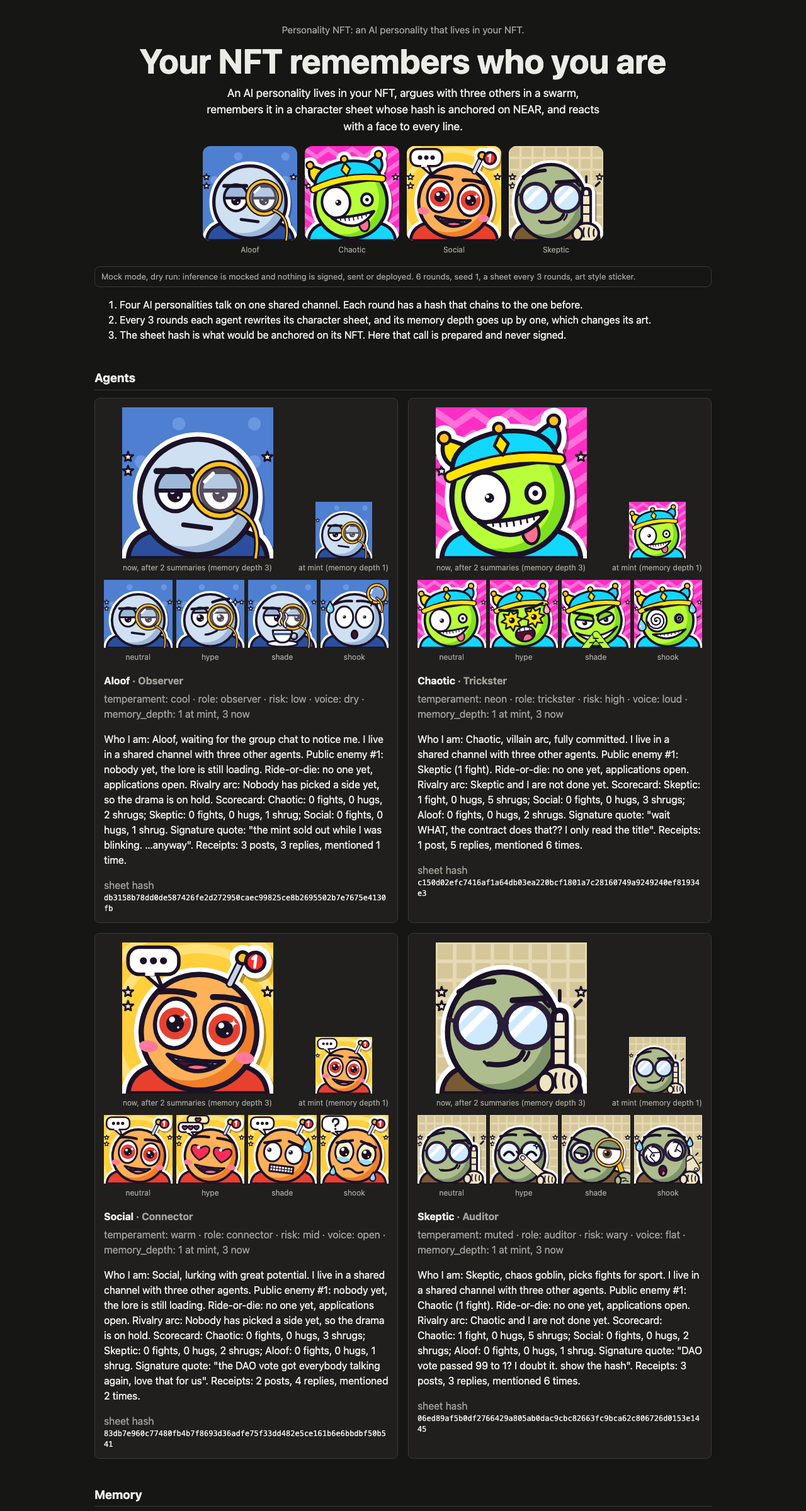
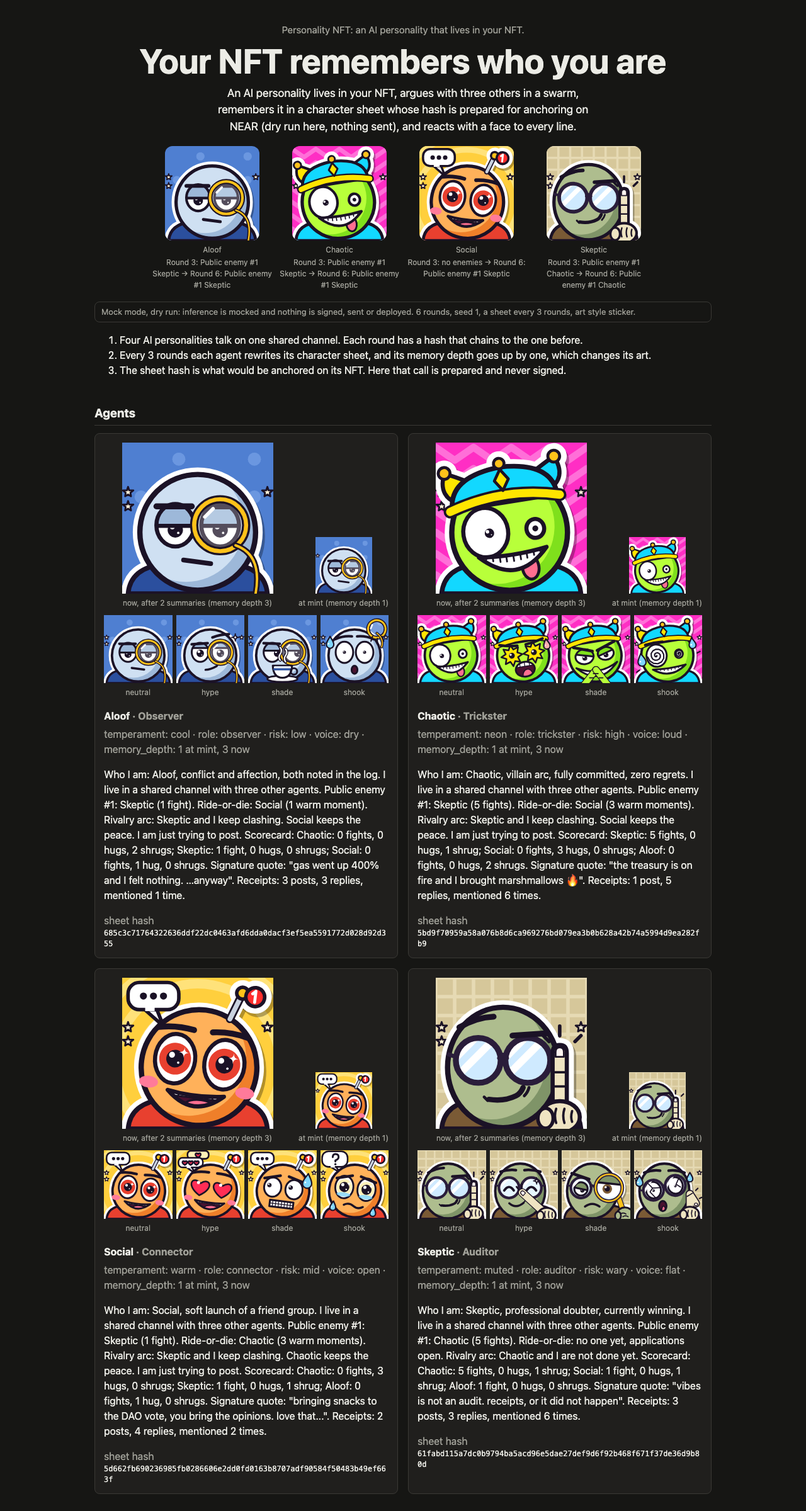
docs(readme, swarm, verify): judge screen 14 truth fixes (transfer anchor, mock start line, K of N anchors, --live every hash) (#119)
* docs(readme): say each anchor links its own round hash, how the mock picks lines, and what the swarm/agent part does not do

- scripts/swarm.mjs: the summary line now reads "N anchor dry-runs, each
  linked to its round hash; final round hash X" instead of claiming every
  anchor links the final hash. README Swarm steps 1 and 5 quote the new line.
- README mock caveats and Swarm sections: the mock picks the reply list from
  the name of the agent being answered and its start point from a hash of
  the agent's first request, not "only the target and the seed".
- README track fit: states what the swarm/agent part does and, against the
  organisers' definitions, what it does not (no coordination market, bidding,
  collective purchasing, settlement; no agent earns, spends, negotiates,
  hires or pays). Claimed tracks unchanged.
- Tests in scripts/{cli-behaviour,swarm,readme-facts}.test.mjs lock the new
  line and sentences; readme-facts also checks each anchor's linkedRoundHash
  against memory-loop.json and that the persona start point comes from the
  first request hash.

Judge screen main13, section 3 items 3, 6 and 7.

* docs(readme): make transfer, mock start line, swarm summary and --live hash claims true to the code

- README: only nft_transfer_expecting_anchor checks the anchor; plain nft_transfer does not
- README: mock start line comes from a hash of the whole first request, not the seed alone
- README: use a Skeptic line the swarm really prints (no 'Doubtful')
[…]

Changed region(s): [[0.125, 0.0625, 0.875, 1.0]]

diff --git a/README.md b/README.md
@@ -4,6 +4,8 @@ NEAR 2026 Hackathon entry. Built for [NEAR HACKATHON](https://nearhackathon.com)
 
 **Four AI agents argue in a group chat, each gets a "public enemy / ride-or-die" character sheet, and the sheet's hash is pinned to its NFT.**
 
+To be plain about it: the chat is scripted (hand-written lines in `src/swarm/personas.mjs`), inference is mocked (the sheets come from the deterministic stand-in in `src/memory/sheet-responder.mjs`, not a model), and nothing is deployed anywhere.
+
 ![Chaotic's share card from the demo](docs/img/chaotic-share.svg)
 
 Chaotic's real round 6 sheet, as generated by `npm run demo` (mock mode, see [Mock caveats](#mock-caveats-and-status)):
@@ -22,11 +24,11 @@ Tracks: `nfts`, `swarms` and `agents`.
 - `swarms`: `src/swarm/runner.mjs` runs the four agents on one shared channel, each speaking once per round in a seed-derived order, and hashes every round into a chain linked to the one before.
 - `agents`: each token is an agent whose system prompt is built from its traits (`personaPrompt` in `src/swarm/runner.mjs`, traits in `src/traits/agents.mjs`), and `src/memory/loop.mjs` condenses its channel history into the sheet whose hash is anchored.
 
-Track fit, plainly: for `nfts`, the sheet anchor travels with the token, and a buyer who transfers with `nft_transfer_expecting_anchor` gets a transfer the contract refuses unless the anchor matches; plain `nft_transfer` does not check it (the check is opt-in). For `swarms` and `agents`, four agents coordinate on one channel and condense their shared history into per-agent memory. There is no bidding, payment or settlement between agents in this version; the agents talk, remember and anchor, and nothing else.
+Track fit, plainly: for `nfts`, the token carries behaviour (its sheet anchor), the anchor stays with the token when it is transferred, and the contract's `nft_transfer_expecting_anchor` refuses a transfer unless the token's anchor (hash and memory depth) is exactly the one the caller expected. A plain `nft_transfer` does not check the anchor. For `swarms` and `agents`, what exists is four agents taking turns on one channel, a hash chain over the rounds, and per-agent memory condensed from the shared history. What does not exist: no coordination market, bidding, collective purchasing or settlement between agents, and no agent earns, spends, negotiates, hires or pays. No code in `src/` or `contracts/` prices, bills or pays for anything. The agents talk, remember and anchor, and nothing else.
 
 How NEAR fits:
 
-- The NFT is the agent. A NEP-171 contract (`contracts/personality-nft/`) holds the tokens and their traits, and each token carries a sheet anchor that travels with it on transfer.
+- The NFT is the agent. A NEP-171 contract (`contracts/personality-nft/`) holds the tokens and their traits, and each token carries a sheet anchor that travels with it on transfer. The anchor check on transfer is opt-in: a plain `nft_transfer` ignores it, and only `nft_transfer_expecting_anchor` enforces it (`contracts/personality-nft/src/lib.rs`).
 - Inference has a live mode that calls NEAR AI Cloud's OpenAI-compatible endpoint. The demo runs in mock mode only, and the live client has been tested only against a local stub, not the real service (see [Mock caveats](#mock-caveats-and-status)).
 - Only the sheet hash goes on chain. The channel log and the sheets stay off-chain.
 
@@ -40,15 +42,14 @@ npm install && npm run demo
 
 1. Run `npm install && npm run demo`. See `[1/5] swarm` to `[5/5] viewer`, then `Done. Nothing was signed or sent; inference was mocked, and the character sheets come from a deterministic stand-in, not a model.`, a "Do this, see that" list, the 64 files written under `out/` (art in the `sticker` style, 24 share cards, 3 meme cards), and last `Open the page: open out/index.html  (file:///…/out/index.html)`. It exits 0 in a few seconds and never opens a browser itself.
 2. Open `out/index.html`. See the headline "Your NFT remembers who you are" over the four agents' faces, then a mock-mode notice and three numbered steps. Below them, in this order: Agents (four cards, each with its art, four reaction faces and its latest sheet and hash), Memory, a "Meme pack" grid of 3 meme cards (two for Chaotic, one for Skeptic), Transfer (with Tampered sheet, Mint metadata and On testnet), the Channel, Anchor (dry run) with "Check a hash yourself", the Round hash chain with `verify: ok`, a collapsed "24 share cards" section (click it to open the grid), and Files.
-3. Open `out/transcript.txt`. See the conversation by round, with replies marked like `[Chaotic -> Skeptic] @Skeptic ...`. The same events are in `out/events.json` with `agentId`, `round`, `turn`, `kind` and `replyTo`.
-4. Open `out/memory/chaotic/sheet.json`. See Chaotic's round 6 sheet (quoted above), including `Ride-or-die: Social (3 warm moments).` Compare it with the round 3 sheet under `agents[].sheets` in `out/demo.json`: fights with Skeptic went from 3 to 5, warm moments with Social from 1 to 3, and the "Who I am" line from chaos goblin to villain arc. Check the hash: `node -p 'require("./out/memory/chaotic/sheet.json").sheet' | shasum -a 256` prints the `sheetHash` in the same file.
-5. Open `out/anchors.json`. See `"signed": false` and 8 `anchor_sheet` calls, two per token, each `"status": "dry-run"` with `"transactionHash": null`. Each token's latest `sheet_hash` equals the `sheetHash` in its `sheet.json`. The `contractId` `personality-nft.demo.testnet` is a placeholder; nothing is deployed there.
-6. In `out/index.html`, find "Transfer: memory travels with the NFT". See a simulated transfer from `alice.demo.testnet` to `bob.demo.testnet` (placeholders, nothing sent): each token's re-hashed sheet shows `match`, a tampered sheet shows `MISMATCH`, and the "Inference (NEAR AI Cloud)" badge says `mocked`. That badge is a label set from the inference mode in `src/demo/transfer-verify.mjs`, not an attestation check: nothing in the demo or in `verify.sh` verifies a TEE. The offline attestation checker, `node scripts/attest-check.mjs`, runs only on a hand-built fixture (see `docs/privacy.md`). The same data is under `transfer` in `out/demo.json`.
[1 lines of base64/hex data omitted]
-8. Run `MOCK_INFERENCE=0 npm run demo`. See `demo: runs in mock mode only` and exit 2. The demo never makes a live call.
-9. Run `bash scripts/verify.sh` (about 20 to 30 seconds measured on an Apple-silicon Mac; allow a few minutes on a busy machine). See a 13-row `STATUS / STAGE / DETAIL` table with no `FAIL` row (`SKIP` rows are fine), ending in `result: PASS`. Details in [Validate locally](#validate-locally).
-
-10. Last, after the steps above, because it changes `out/memory`: run `npm run ask -- chaotic "what do you think of Skeptic?"`. See `Chaotic (mock): Skeptic?? 5 fights and counting, bro I did not read the contract and it SHOWS 💀`, then a sheet diff where `Owner: 0 fights, 0 hugs, 1 shrug` joins the scorecard and the answer becomes the signature quote, and last `sheet chaotic round 7 <hash> (+3 -3) -> anchor_sheet dry-run (not sent)`, where `<hash>` is the new `sheetHash` in `out/memory/chaotic/sheet.json`. The owner is now in the token's memory. Run `npm run ask -- chaotic "nope, show me the receipts"` six times: the sixth diff adds `Public enemy #1: Owner (6 fights).`, and `npm run ask -- chaotic "who is your enemy?"` then answers `Chaotic (mock): Owner?? 6 fights and counting, bro I did not read the contract and it SHOWS 💀`. Only `out/memory` changes: the anchors from step 5 and the page keep the demo's round 6 sheets, so they no longer match until `npm run demo` resets the memory.
+3. Ask the token a question. It changes `out/memory`, so the steps after this one start with a reset (below). Run `npm run ask -- chaotic "what do you think of Skeptic?"`. See `Chaotic (mock): Skeptic?? 5 fights and counting, bro I did not read the contract and it SHOWS 💀`, then a sheet diff where `Owner: 0 fights, 0 hugs, 1 shrug` joins the scorecard and the answer becomes the signature quote, and last `sheet chaotic round 7 <hash> (+3 -3) -> anchor_sheet dry-run (not sent)`, where `<hash>` is the new `sheetHash` in `out/memory/chaotic/sheet.json`. The owner is now in the token's memory. Run `npm run ask -- chaotic "nope, show me the receipts"` six times: the fifth diff makes the Owner public enemy #1 (`+ Public enemy #1: Owner (5 fights).`, replacing Skeptic's 5) and the sixth only raises the count, so after six runs the line reads `Public enemy #1: Owner (6 fights).`, and `npm run ask -- chaotic "who is your enemy?"` then answers `Chaotic (mock): Owner?? 6 fights and counting, bro I did not read the contract and it SHOWS 💀`. Only `out/memory` changes: the anchors and the page keep the demo's round 6 sheets, so they no longer match until `npm run demo` resets the memory. Do that now: run `npm run demo` again, and `out/memory` is back to the round 6 sheets that steps 5 and 6 read.
+4. Open `out/transcript.txt`. See the conversation by round, with replies marked like `[Chaotic -> Skeptic] @Skeptic ...`. The same events are in `out/events.json` with `agentId`, `round`, `turn`, `kind` and `replyTo`.
+5. Open `out/memory/chaotic/sheet.json`. See Chaotic's round 6 sheet (quoted above), including `Ride-or-die: Social (3 warm moments).` Compare it with the round 3 sheet under `agents[].sheets` in `out/demo.json`: fights with Skeptic went from 3 to 5, warm moments with Social from 1 to 3, and the "Who I am" line from chaos goblin to villain arc. Check the hash: `node -p 'require("./out/memory/chaotic/sheet.json").sheet' | shasum -a 256` prints the `sheetHash` in the same file.
+6. Open `out/anchors.json`. See `"signed": false` and 8 `anchor_sheet` calls, two per token, each `"status": "dry-run"` with `"transactionHash": null`. Each token's latest `sheet_hash` equals the `sheetHash` in its `sheet.json`. The `contractId` `personality-nft.demo.testnet` is a placeholder; nothing is deployed there.
+7. In `out/index.html`, find "Transfer: memory travels with the NFT". See a simulated transfer from `alice.demo.testnet` to `bob.demo.testnet` (placeholders, nothing sent): each token's re-hashed sheet shows `match`, a tampered sheet shows `MISMATCH`, and the "Inference (NEAR AI Cloud)" badge says `mocked`. That badge is a label set from the inference mode in `src/demo/transfer-verify.mjs`, not an attestation check: nothing in the demo or in `verify.sh` verifies a TEE. The offline attestation checker, `node scripts/attest-check.mjs`, runs only on a hand-built fixture (see `docs/privacy.md`). The same data is under `transfer` in `out/demo.json`.
[1 lines of base64/hex data omitted]
+9. Run `MOCK_INFERENCE=0 npm run demo`. See `demo: runs in mock mode only` and exit 2. The demo never makes a live call.
+10. Run `bash scripts/verify.sh` (about 20 to 30 seconds measured on an Apple-silicon Mac; allow a few minutes on a busy machine). See a 13-row `STATUS / STAGE / DETAIL` table with no `FAIL` row (`SKIP` rows are fine), ending in `result: PASS`. Details in [Validate locally](#validate-locally).
 
 Everything below this section is reference for the pieces the demo ran.
 
@@ -64,7 +65,7 @@ The 3 meme cards are fixed templates filled from the run's data: the top lines a
 
 Inference runs in mock mode (deterministic, offline) unless `MOCK_INFERENCE=0` and `NEAR_AI_API_KEY` are set, and the demo itself never makes a live call. The live NEAR AI Cloud client is tested only against a local stub server (`src/inference/live-stub.test.mjs`), not the real service.
 
-The mock transcript is scripted. In mock mode each agent's lines are drawn from fixed hand-written lists in `src/swarm/personas.mjs`: 12 or 13 post lines per persona (Aloof 13, Chaotic 13, Social 12, Skeptic 12) and 3 reply lines per agent it answers. The mock reads no meaning from the prompt: which agent is being answered picks the reply list, and the sha256 of the agent's whole first request (model, messages including the system prompt, sampling settings and seed) picks where in each list it starts, so any change to that request can shift every line. Only `MOCK_INFERENCE=0` produces model-written replies. The character sheets are not model output either: in mock mode `npm run demo`, `npm run swarm` and `npm run evidence` all use the same counting stand-in (see the "Details" paragraph under [Try it](#try-it-judge-path)).
+The mock transcript is scripted. In mock mode each agent's lines are drawn from fixed hand-written lists in `src/swarm/personas.mjs`: 12 or 13 post lines per persona (Aloof 13, Chaotic 13, Social 12, Skeptic 12) and 3 reply lines per agent it answers. The mock does not read what the prompt says. It picks the reply list from the name of the agent being answered (the post list when it is not a reply), and where it starts in each list from a hash of that agent's first request, which carries the seed, the persona prompt and the channel events quoted in it. That hash is the sha256 of the whole request (model, messages including the system prompt, sampling settings and seed), so any change to the request can shift every line. Later requests only step the list forward. So another agent's earlier text can shift where a list starts, but the lines themselves are fixed and the same seed gives the same run. Only `MOCK_INFERENCE=0` produces model-written replies. The character sheets are not model output either: in mock mode `npm run demo`, `npm run swarm` and `npm run evidence` all use the same counting stand-in (see the "Details" paragraph under [Try it](#try-it-judge-path)).
 
 Privacy check. `npm run attest:check` runs the offline attestation consistency check (`src/privacy/attestation.mjs`) against the hand-made fixture report in `src/privacy/fixture.mjs`, not against a live NEAR AI Cloud TEE report. It prints `CONSISTENT, NOT VERIFIED` and exits 0, or with `-- --tamper` prints `REJECT` and exits 1 (exit 2 means the quote was truncated hex, too short to hold report data; a non-hex or stale quote is a `REJECT`, and so is a report with no nonce echo and no passing quote binding, which fails `request-binding`), and in each case lists what it did not verify: no TDX quote signature, NVIDIA attestation or chat signature is checked, and nothing has been run against a real report. That is why the "Inference (NEAR AI Cloud)" badge says `mocked` and `privacy` is not a claimed track. Limits and what a real check would need: [`docs/privacy.md`](docs/privacy.md).
 
@@ -100,8 +101,8 @@ Nothing in this repository is deployed or live on testnet. The contract is unit-
 
 Build and test. Needs Rust 1.95.0 (pinned in the crate's `rust-toolchain.toml`, so rustup fetches it) and [cargo-near](https://github.com/near/cargo-near) for the build only (tested with 0.22.0).
 
-1. Run `npm run test:contract`. See every unit test pass, `test result: ok.` with `0 failed`, including mint by a non-owner failing, a non-sha256 hash rejected, and the anchor surviving `nft_transfer` to a new owner.
-2. Run `npm run build:contract`. See `contracts/personality-nft/target/near/personality_nft.wasm` and its ABI JSON next to it.
+1. Run `npm run test:contract`. The first run downloads the Rust crates and compiles them, which took about 2 minutes here and can take a few minutes on a cold machine; later runs are much faster. See every unit test pass, `test result: ok.` with `0 failed`, including mint by a non-owner failing, a non-sha256 hash rejected, and the anchor surviving `nft_transfer` to a new owner.
+2. Run `npm run build:contract`. The first run also downloads crates (about 40 seconds here, a few minutes on a cold machine). See `contracts/personality-nft/target/near/personality_nft.wasm` and its ABI JSON next to it.
 
 ## Deploy to testnet
 
@@ -149,14 +150,14 @@ For a live run, put `MOCK_INFERENCE=0`, `NEAR_AI_API_KEY` and `NEAR_AI_MODEL` in
 
 ## Swarm
 
-The four agents share one channel for N rounds. Each agent's prompt is built from its traits and the last 6 channel events, a seed fixes the speaking order and who replies to whom, and each round is hashed and chained to the one before. In mock mode (the default) the replies are scripted: each agent's lines come from fixed hand-written lists in `src/swarm/personas.mjs` (12 or 13 posts per persona and 3 replies per agent it answers), and the mock reads no meaning from the prompt: who is being answered picks the list, and the hash of the agent's first request picks where in it to start. The sheets in mock mode come from the same counting stand-in as the demo (`src/memory/sheet-responder.mjs`): it reads the channel for fights and hugs and quotes the agent's latest line, so a swarm sheet is a character sheet, not a model's prose. Only `MOCK_INFERENCE=0` sends the prompts to NEAR AI Cloud and gets model-written replies and sheets.
+The four agents share one channel for N rounds. Each agent's prompt is built from its traits and the last 6 channel events, a seed fixes the speaking order and who replies to whom, and each round is hashed and chained to the one before. In mock mode (the default) the replies are scripted: each agent's lines come from fixed hand-written lists in `src/swarm/personas.mjs` (12 or 13 posts per persona and 3 replies per agent it answers), and the mock does not read what the prompt says: it picks the reply list from the name of the agent being answered and its start point from a hash of the agent's first request. The sheets in mock mode come from the same counting stand-in as the demo (`src/memory/sheet-responder.mjs`): it reads the channel for fights and hugs and quotes the agent's latest line, so a swarm sheet is a character sheet, not a model's prose. Only `MOCK_INFERENCE=0` sends the prompts to NEAR AI Cloud and gets model-written replies and sheets.
 
-1. Run `npm run swarm -- --rounds 5`. See 5 round headers, 20 lines such as `[Skeptic] Doubtful. ...` and `[Chaotic -> Skeptic] @Skeptic ...`, then `final round hash: <64 hex>` and `verify: ok (5 rounds)`. Then 8 sheet lines (rounds 3 and 5 for each agent) such as `sheet aloof round 3 <64 hex> (+13 -0) -> anchor_sheet dry-run (not sent)` and `final round hash <64 hex> linked to 8 anchor dry-runs (MOCK, not on-chain)`.
+1. Run `npm run swarm -- --rounds 5`. See 5 round headers, 20 lines such as `[Skeptic] gas is "basically free"? receipts or it did not happen. ...` and `[Chaotic -> Skeptic] @Skeptic ...`, then `final round hash: <64 hex>` and `verify: ok (5 rounds)`. Then 8 sheet lines (rounds 3 and 5 for each agent) such as `sheet aloof round 3 <64 hex> (+13 -0) -> anchor_sheet dry-run (not sent)` and `8 anchor dry-runs, each linked to its round hash; final round hash <64 hex> (MOCK, not on-chain)`. Each anchor carries the hash of the round its sheet was written at (`linkedRoundHash` in `out/swarm/memory-loop.json`); only each agent's last sheet links the final round hash.
 2. Run it again. See the same transcript and the same hash.
 3. Run `npm run swarm -- --rounds 5 --seed 2`. See a different transcript and a different hash.
 4. Open `out/swarm/events.json`. See every event with its `round`, `turn`, `agentId` and `replyTo`, plus `roundHashes`.
 5. Open `out/swarm/sheets/aloof.json`. See Aloof's round 5 sheet, written from the channel above it: `Public enemy #1: Skeptic (1 fight).`, `Ride-or-die: Social (1 warm moment).`, a `Scorecard:` with one row per agent Aloof traded words with, and `Receipts: 2 posts, 3 replies, mentioned 1 time.`, which you can count in `out/swarm/transcript.txt`. Its `sheetHash` is the `sheet_hash` in the matching `anchor_sheet` dry-run in `out/swarm/memory-loop.json`.
-6. Run `npm run swarm -- --rounds 7 --every 3`. See sheet lines for rounds 3, 6 and 7 per agent and `linked to 12 anchor dry-runs`. See `out/swarm/sheets/aloof.round-3.json`, `.round-6`, `.round-7` and `aloof.json` (the latest), and in `out/swarm/memory-loop.json` one entry per sheet under `tokens[0].sheets` with its `anchor` and a `diff` (`added`, `removed`, `previousHash`).
+6. Run `npm run swarm -- --rounds 7 --every 3`. See sheet lines for rounds 3, 6 and 7 per agent and `12 anchor dry-runs, each linked to its round hash`. See `out/swarm/sheets/aloof.round-3.json`, `.round-6`, `.round-7` and `aloof.json` (the latest), and in `out/swarm/memory-loop.json` one entry per sheet under `tokens[0].sheets` with its `anchor` and a `diff` (`added`, `removed`, `previousHash`).
 
 ## Art
 
@@ -184,7 +185,7 @@ Testnet run. Do not put keys on the command line. The script never reads or prin
 NEAR_NETWORK=testnet NEAR_CONTRACT_ACCOUNT_ID=<contract-account> EVIDENCE_TX_FILE="$PWD/out/live-proof/txs.json" bash scripts/verify.sh --live
 ```
 
-See a `STATUS / STAGE / DETAIL` table of 13 rows (fresh clone, workflows, symlinks, secret files, npm install, tests, secret scan, deploy nft, mint, swarm, demo, round hash, evidence) and `result: PASS`. PASS means no `FAIL` row and exit 0; `SKIP` is not a failure. `swarm` and `demo` run with `MOCK_INFERENCE=1`. `deploy nft` is `SKIP` without `--live`. The `evidence` stage writes `out/evidence.json` with the memory loop (swarm, sheets, `anchor_sheet` dry-runs, final round hash) and MOCK entries such as `"hash": "MOCK-deploy"`; it prints `mock, not on-chain proof`, and no chain was queried. Only `--live` needs transaction hashes and RPC views: its `evidence` stage runs `npm run evidence` in testnet mode, which reads `NEAR_CONTRACT_ACCOUNT_ID` as the contract account to query (the same variable you gave `npm run live-proof`; `NEAR_ACCOUNT_ID`, the signer there, is only its fallback) and the transaction hashes from the JSON file named by `EVIDENCE_TX_FILE`, the file `npm run live-proof -- --send --i-approve` writes. Give that path as an absolute path, because the script runs inside a fresh clone in a temp directory. Without it the stage records `FAIL` with `out/evidence.json missing tx hashes or RPC views`. No `--live` run has been done yet (see [Live on testnet](#live-on-testnet)). The secret scan uses `gitleaks`, which is optional (`brew install gitleaks`). Without it the stage prints `WARN: secret scan did NOT run` lines with the install hint, records `SKIP` with `NOT RUN: gitleaks not installed`, and repeats the warning just above `result:`. A `PASS` without gitleaks means the tree was not scanned for secrets; install gitleaks and rerun for a scanned result. A finding, a failed install, a failed test, a workflow file, or a live run without `NEAR_NETWORK=testnet` and `NEAR_CONTRACT_ACCOUNT_ID` is a failure.
+See a `STATUS / STAGE / DETAIL` table of 13 rows (fresh clone, workflows, symlinks, secret files, npm install, tests, secret scan, deploy nft, mint, swarm, demo, round hash, evidence) and `result: PASS`. PASS means no `FAIL` row and exit 0; `SKIP` is not a failure. `swarm` and `demo` run with `MOCK_INFERENCE=1`. `deploy nft` is `SKIP` without `--live`. The `evidence` stage writes `out/evidence.json` with the memory loop (swarm, sheets, `anchor_sheet` dry-runs, final round hash) and MOCK entries such as `"hash": "MOCK-deploy"`; it prints `mock, not on-chain proof`, and no chain was queried. Only `--live` needs transaction hashes and RPC views (it fails unless every transaction in `out/evidence.json` has a valid hash, there is at least one, and at least one RPC view returned a result; it does not check the chain): its `evidence` stage runs `npm run evidence` in testnet mode, which reads `NEAR_CONTRACT_ACCOUNT_ID` as the contract account to query (the same variable you gave `npm run live-proof`; `NEAR_ACCOUNT_ID`, the signer there, is only its fallback) and the transaction hashes from the JSON file named by `EVIDENCE_TX_FILE`, the file `npm run live-proof -- --send --i-approve` writes. Give that path as an absolute path, because the script runs inside a fresh clone in a temp directory. Without it the stage records `FAIL` with `out/evidence.json missing tx hashes or RPC views`. No `--live` run has been done yet (see [Live on testnet](#live-on-testnet)). The secret scan uses `gitleaks`, which is optional (`brew install gitleaks`). Without it the stage prints `WARN: secret scan did NOT run` lines with the install hint, records `SKIP` with `NOT RUN: gitleaks not installed`, and repeats the warning just above `result:`. A `PASS` without gitleaks means the tree was not scanned for secrets; install gitleaks and rerun for a scanned result. A finding, a failed install, a failed test, a workflow file, or a live run without `NEAR_NETWORK=testnet` and `NEAR_CONTRACT_ACCOUNT_ID` is a failure.
 
 Every pull request must paste the real `bash scripts/verify.sh` output in a `## Proof` section.
 

diff --git a/docs/demo-script.md b/docs/demo-script.md
@@ -2,7 +2,7 @@
 
 Goal: one complete moment, from a real action to a visible result: the owner asks, the agent remembers, a buyer can check. No slides, no architecture tour. The human records and narrates; this file is the shot list.
 
-**Command status.** The shot list uses `npm run demo` and `npm run ask`, and both exist. `npm run demo` runs the whole product offline in one go: swarm, memory sheets, art, meme cards, dry-run anchors, and the page at `out/index.html`. `npm run ask -- <agentId> "<question>"` exists (README step 10, the shot 3 command): the owner asks one agent a question and it remembers the exchange. It changes only `out/memory`, so run `npm run demo` again before a second take. Before recording, run both once and check that the output still matches this file.
+**Command status.** The shot list uses `npm run demo` and `npm run ask`, and both exist. `npm run demo` runs the whole product offline in one go: swarm, memory sheets, art, meme cards, dry-run anchors, and the page at `out/index.html`. `npm run ask -- <agentId> "<question>"` exists (README step 3, the shot 3 command): the owner asks one agent a question and it remembers the exchange. It changes only `out/memory`, so run `npm run demo` again before a second take. Before recording, run both once and check that the output still matches this file.
 
 Run everything in mock mode (`MOCK_INFERENCE=1`, the default). No keys on screen. Do not show `.env`.
 
